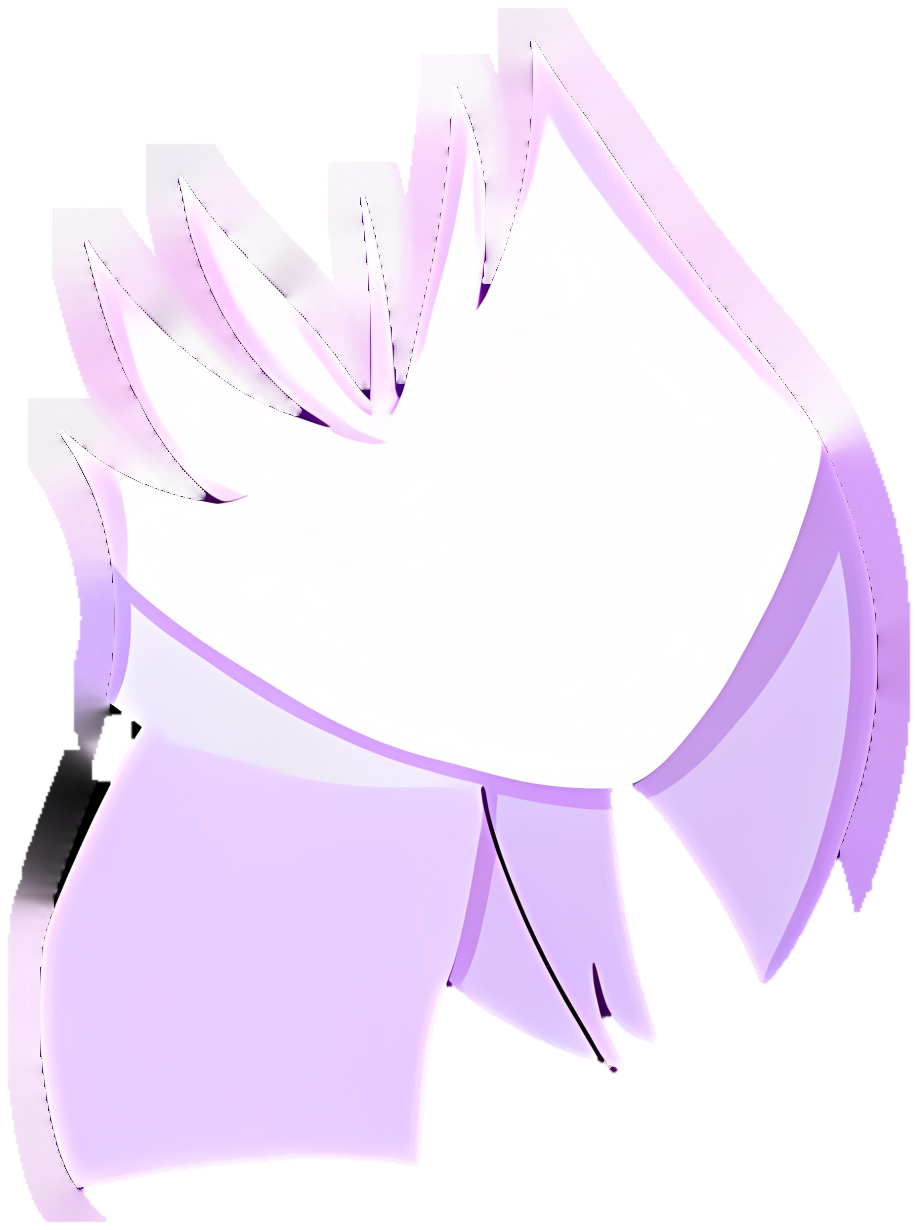
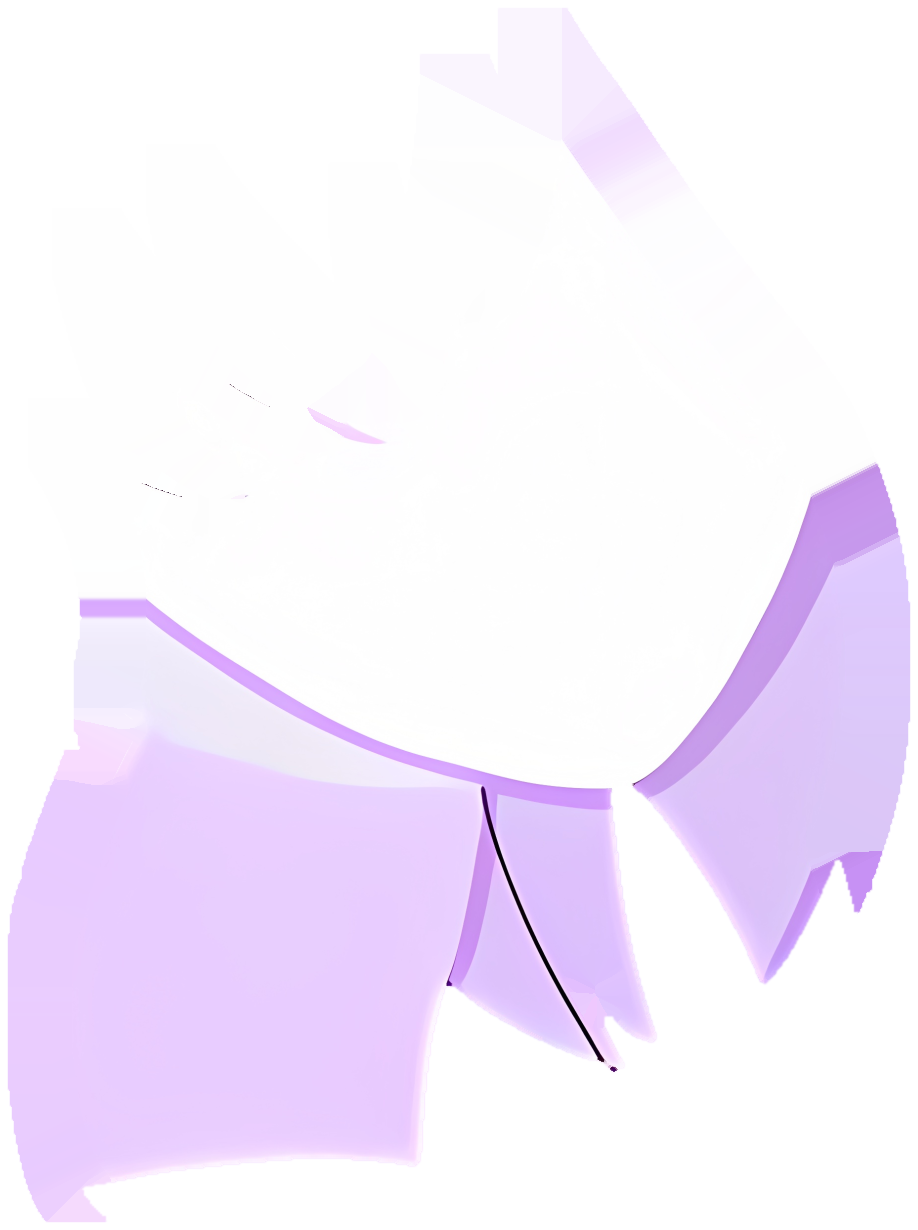
Persona 1's girl: the fringe and the left of her neck stay clean as she moves
From the user's marks on the phone's recording. The lavender glow the picture draws
along each strand now belongs to the hair layer (unmixed over the face's flat colour,
so the still picture is unchanged) and the face under and near the hair is its flat
colour, so the bangs no longer leave a second outline and dark slivers on the face.
The black wedge between the left curtain and the collar is hair (it broke into black
and white pieces as the curtain swung); light specks at the strand tips take the hair's
colour; the pendant's cord is kept as drawn. Rendered at eight moments of the loop
before and after here; not seen on a phone.

Claude-Session: https://claude.ai/code/session_01FWKXEzRC6dXqMv7fZsVSfw

diff --git a/tools/art/build_layers_sr.py b/tools/art/build_layers_sr.py
@@ -85,6 +85,89 @@ def write_layer(out, name, mask1, pixels2, covered1):
     CROPS[name] = dict(x=int(x0 // K), y=int(y0 // K), w=int((x1 - x0) // K), h=int((y1 - y0) // K))
     cv2.imwrite(os.path.join(out, name + '.png'), rgba)
 
+def refine_head(out, face1, hair1, pixels2, ear_box, D=16):
+    """Cleans where the face meets the hair, so nothing tears when they move apart (the user's marks on the phone's recording).
+
+    The picture draws a lavender glow along every strand on the face's side. Left on the face, it stayed put while the strands moved, and showed as a
+    second outline beside each strand, with dark slivers between; the face's fill under the hair carried the same colours. Here the glow moves to the hair
+    layer, unmixed over the face's own flat colour (so at rest the picture is unchanged), and the face under and near the hair is its flat colour only.
+    The black wedge between the left curtain and the collar ([ear_box], art units) becomes hair; light specks at the strands' tips take the hair's colour.
+    D is how far from the hair (art units) the glow is looked for."""
+    c = CROPS['hair']; X0, Y0, X1, Y1 = c['x'] * K, c['y'] * K, (c['x'] + c['w']) * K, (c['y'] + c['h']) * K
+    up = lambda m: cv2.GaussianBlur(cv2.resize(m.astype(np.float32), (AW * K, AH * K), interpolation=cv2.INTER_CUBIC), (0, 0), 1.1)[Y0:Y1, X0:X1] > 0.5
+    face2, hair2 = up(face1), up(hair1)
+    P = pixels2[Y0:Y1, X0:X1].astype(np.float32)
+    h, w = face2.shape
+    def place(name):
+        im = cv2.imread(os.path.join(out, name + '.png'), cv2.IMREAD_UNCHANGED).astype(np.float32)
+        cc = CROPS[name]; x, y = cc['x'] * K - X0, cc['y'] * K - Y0
+        full = np.zeros((h, w, 4), np.float32); full[y:y + im.shape[0], x:x + im.shape[1]] = im
+        return full, (x, y, im.shape[1], im.shape[0])
+    F, fbox = place('face'); Hr, _ = place('hair')
+    def nearest(src_mask, values):
+        _, lab = cv2.distanceTransformWithLabels((~src_mask).astype(np.uint8), cv2.DIST_L2, 5, labelType=cv2.DIST_LABEL_PIXEL)
+        ys, xs = np.nonzero(src_mask); lut = np.zeros((lab.max() + 1, values.shape[2]), np.float32); lut[lab[ys, xs]] = values[ys, xs]
+        return lut[lab]
+    lum = lambda im: im[..., 2] * 0.30 + im[..., 1] * 0.59 + im[..., 0] * 0.11
+    dh = cv2.distanceTransform((~hair2).astype(np.uint8), cv2.DIST_L2, 5)
+    dface = cv2.distanceTransform(face2.astype(np.uint8), cv2.DIST_L2, 5)
+    # the face's own flat colours, from well inside it (smoothed, so the picture's grain does not travel), carried to every pixel
+    Ps = cv2.GaussianBlur(cv2.medianBlur(P.astype(np.uint8), 5).astype(np.float32), (0, 0), 1.0)
+    blackish = (P.max(-1) - P.min(-1) < 30) & (lum(P) < 60)                       # drawn black (the wedge by the left curtain), not the hair's purple
+    ex0, ey0, ex1, ey1 = [v * K for v in ear_box]
+    box = np.zeros((h, w), bool); box[max(ey0 - Y0, 0):ey1 - Y0, max(ex0 - X0, 0):ex1 - X0] = True
+    cord = (cv2.dilate((blackish & ~box).astype(np.uint8), np.ones((7, 7), np.uint8)) > 0) & face2       # the pendant's cord and other thin black lines on the face: kept as drawn
+    ear = box & blackish
+    ear = cv2.morphologyEx(ear.astype(np.uint8), cv2.MORPH_CLOSE, np.ones((5, 5), np.uint8)) > 0
+    near_ear = cv2.dilate(ear.astype(np.uint8), np.ones((11, 11), np.uint8)) > 0          # with its grey edge
+    inner = face2 & (dh > 2 * D) & (dface > 6) & ~blackish & ~cord & ~near_ear          # (a line's own pixels must not be spread as the face's colour)
+    Fc = nearest(inner, Ps)
+    # the glow: face pixels near the hair that differ from that flat colour, joined to the hair
+    Pg = cv2.GaussianBlur(P, (0, 0), 0.7)
+    diff = np.sqrt(((Pg - Fc) ** 2).sum(-1))
+    cand = face2 & (dh <= 2 * D) & (diff > 10)
+    n, lab = cv2.connectedComponents(cand.astype(np.uint8), connectivity=8)
+    keep = np.unique(lab[cand & (dh <= 4)]); band = np.isin(lab, keep[keep > 0])
+    dmax = 60.0                                   # a glow this strong or more is all glow (darker pixels by a strand are the strand's own edge)
+    ramp = np.clip((diff - 5) / 10, 0, 1); ramp = ramp * ramp * (3 - 2 * ramp)
+    a = np.where(band, np.clip(diff / dmax, 0, 1) * ramp, 0).astype(np.float32)
+    a = np.minimum(a, cv2.GaussianBlur(band.astype(np.float32), (0, 0), 0.8))       # no hard step where the band ends
+    C = np.clip(Fc + (Pg - Fc) / np.maximum(a, 1e-3)[..., None], 0, 255)
+    # the black wedge by the left curtain: hair now (and the face carries on beneath it)
+    ear_soft = cv2.GaussianBlur(cv2.dilate(ear.astype(np.uint8), np.ones((3, 3), np.uint8)).astype(np.float32), (0, 0), 1.0)
+    a = np.where((ear_soft > 0.01) | cord, 0, a); band &= ~ear & ~cord
+    # the hair: its own pixels in its own colour (no light specks at the tips), then the glow under it, then the wedge
+    hA = Hr[..., 3] / 255.0; hRGB = Hr[..., :3]
+    # the hair's own purple, carried to every pixel: light specks at the tips, and near-black colourless pixels (the wedge), take it
+    grey = (hRGB.max(-1) - hRGB.min(-1) < 30) & (lum(hRGB) < 60)
+    purple = (hA > 0.9) & (lum(hRGB) > 40) & (lum(hRGB) < 90) & ~grey             # the hair's main tone (its darkest shade would leave streaks)
+    hair_col = cv2.GaussianBlur(nearest(purple, hRGB), (0, 0), 2.0)
+    tone = np.median(hRGB[purple], axis=0)                                         # the hair is one flat colour in the picture
+    hRGB = np.where(((lum(hRGB) > 100) & (hA > 0))[..., None], hair_col, hRGB)
+    hRGB = np.where((grey & (hA > 0))[..., None], tone, hRGB)
+    hRGB = np.where(ear_soft[..., None] > 0.01, tone, hRGB)
+    hA = np.maximum(hA, np.clip(ear_soft * 1.6, 0, 1))
+    pre = hRGB * hA[..., None] + C * (a * (1 - hA))[..., None]
+    outA = hA + a * (1 - hA)
+    rgb = pre / np.maximum(outA, 1e-4)[..., None]
+    solid = outA > 0.5
+    rgb = np.where((outA < 0.5)[..., None], np.where((outA > 0.02)[..., None], rgb, nearest(solid, rgb)), rgb)
+    hair_out = np.dstack([np.clip(rgb, 0, 255), np.clip(outA * 255, 0, 255)]).astype(np.uint8)
+    # the face: its flat colour wherever the hair is or may move to, and beneath the wedge
+    fA = F[..., 3]
+    flat = ((dh <= 2 * D) | ~face2 | near_ear) & ~cord
+    fRGB = np.where((flat & (fA > 0))[..., None], Fc, F[..., :3])
+    # and it lies beneath the hair (and the wedge) wherever the hair could uncover it, with no hole for what is under the head to show through
+    near_face = cv2.dilate(face2.astype(np.uint8), np.ones((4 * D + 1, 4 * D + 1), np.uint8)) > 0
+    under = cv2.GaussianBlur(((hair2 | ear) & near_face).astype(np.float32), (0, 0), 1.0)
+    fA = np.maximum(fA, 255 * np.clip(under * 1.6, 0, 1) * near_face)
+    fRGB = np.where((under > 0.01)[..., None] & (F[..., 3] < 250)[..., None], Fc, fRGB)
+    fRGB = np.where((fA <= 5)[..., None], nearest(fA > 128, fRGB), fRGB)
+    x, y, fw, fh = fbox
+    cv2.imwrite(os.path.join(out, 'face.png'), np.dstack([np.clip(fRGB, 0, 255), np.clip(fA, 0, 255)]).astype(np.uint8)[y:y + fh, x:x + fw])
+    cv2.imwrite(os.path.join(out, 'hair.png'), hair_out)
+    return dict(band_px=int(band.sum()), dmax=dmax, ear_px=int(ear.sum()))
+
 def main(src, out):
     os.makedirs(out, exist_ok=True)
     big = cv2.imread(src)
@@ -213,6 +296,7 @@ def main(src, out):
     # the ribbon runs on under the hair only along the band over her head and into the loop on the right, never down the tail
     write_layer(out, 'ribbon', ribbon, img2, hair_mask & (cv2.dilate(ribbon.astype(np.uint8), np.ones((41, 41), np.uint8)) > 0) & (yy < 640))
     write_layer(out, 'hair', hair_mask, img2, np.zeros_like(pendant))
+    print('head', refine_head(out, face, hair_mask, img2, ear_box=(195, 690, 330, 870)))
 
     # the moon and the squares, as before
     yellow = (idx == YEL) & inside

diff --git a/README.md b/README.md
@@ -87,6 +87,11 @@ After the reference picture of the girl with the moon. All of it is in `skins/vi
   ribbon, one continuous hair layer, a small seam filler), each keeping the picture's own pixels, with edge pixels re-coloured from the inside
   so no old background colour fringes. What the artist's signature and the small figure hid is drawn in by hand as flat shapes in colours
   sampled from the picture (the sleeve and its fold line, the torso, the tie ending in a point), and nothing of her passes the disc's edge.
+- **Where the face meets the hair** (`refine_head` in the same script, after the user's marks on the phone's recording): the picture's lavender glow along each
+  strand is moved from the face to the hair layer, unmixed over the face's own flat colour so the still picture is unchanged, and the face under and near the hair
+  is that flat colour only. When the bangs move, the glow goes with them (before, it stayed on the face as a second outline, with dark slivers between). The black
+  wedge between the left curtain and the collar is hair now (it broke into black and white pieces as the curtain swung), light specks at the strands' tips take the
+  hair's colour, and the pendant's cord stays as drawn. Checked by rendering the live page at eight moments of the loop before and after; not on a phone.
 - **Her animation** (`tools/art/blender/p1_puppet.py`, Blender's bpy under Xvfb): each layer is a gridded mesh on a bone rig in the picture's
   own units; the 4-second loop is keyed from waves that start and end at rest, parts lag the ones they hang from, and the hair curtains, bangs,
   ribbon tails and pendant are baked from spring simulations. `--export-rig` writes every bone's matrix 60 times a second (`girl/rig.json`).
